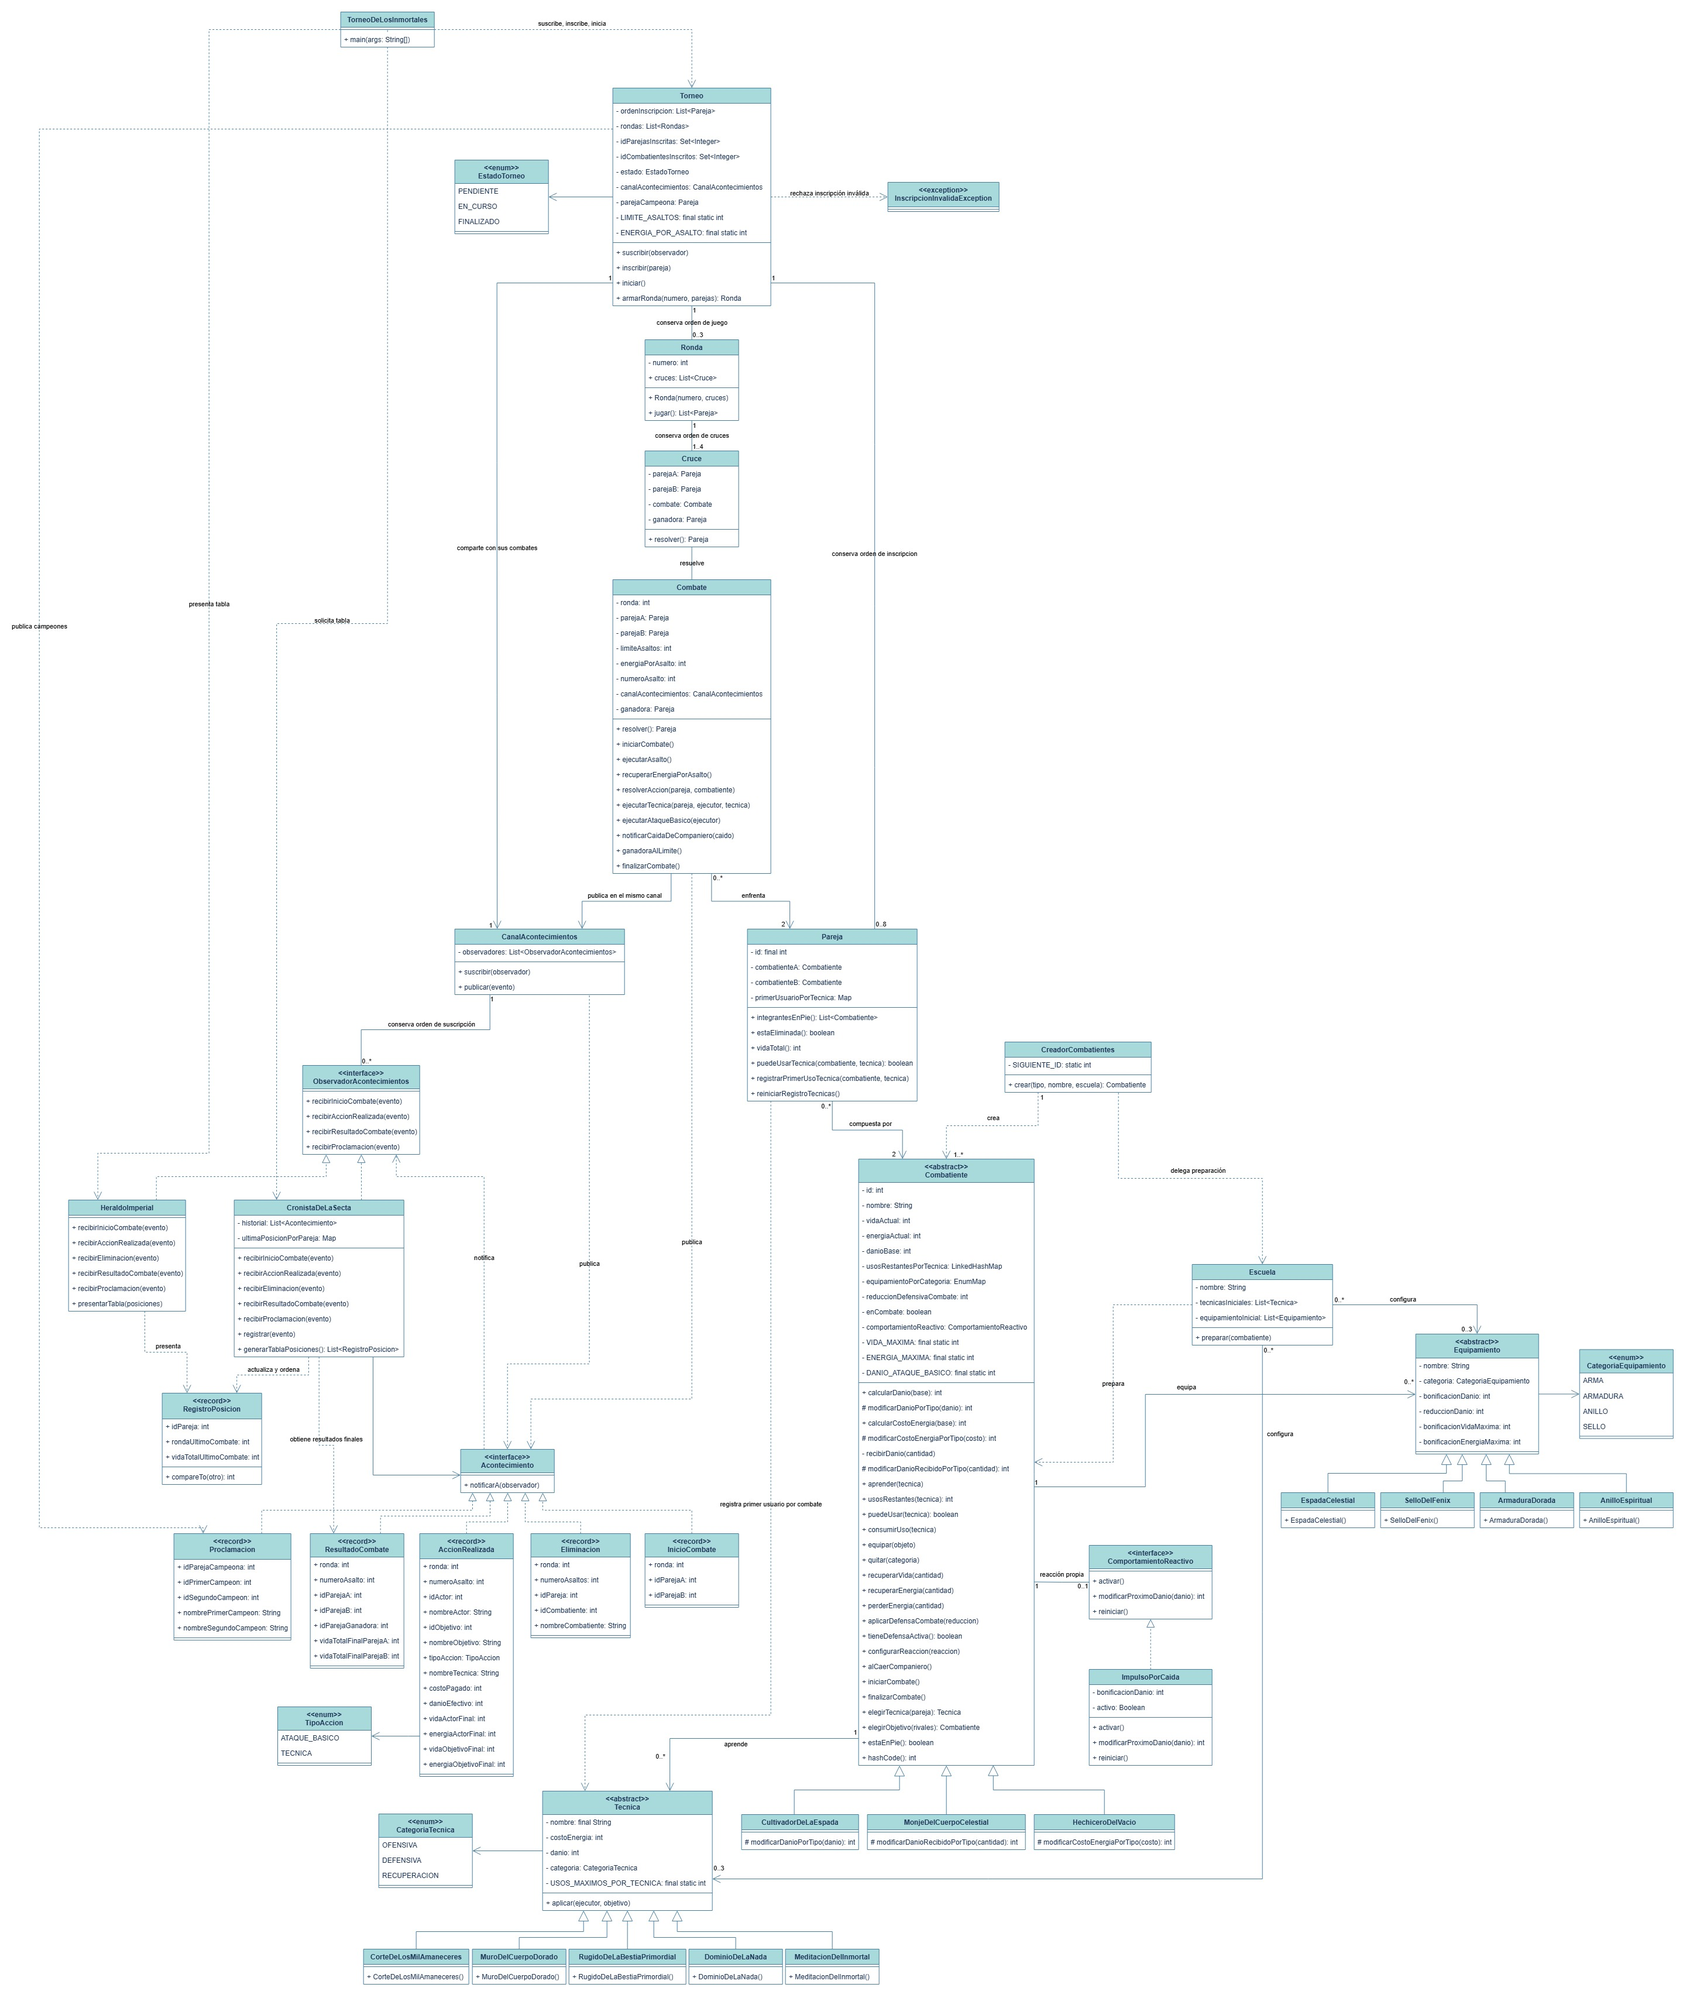
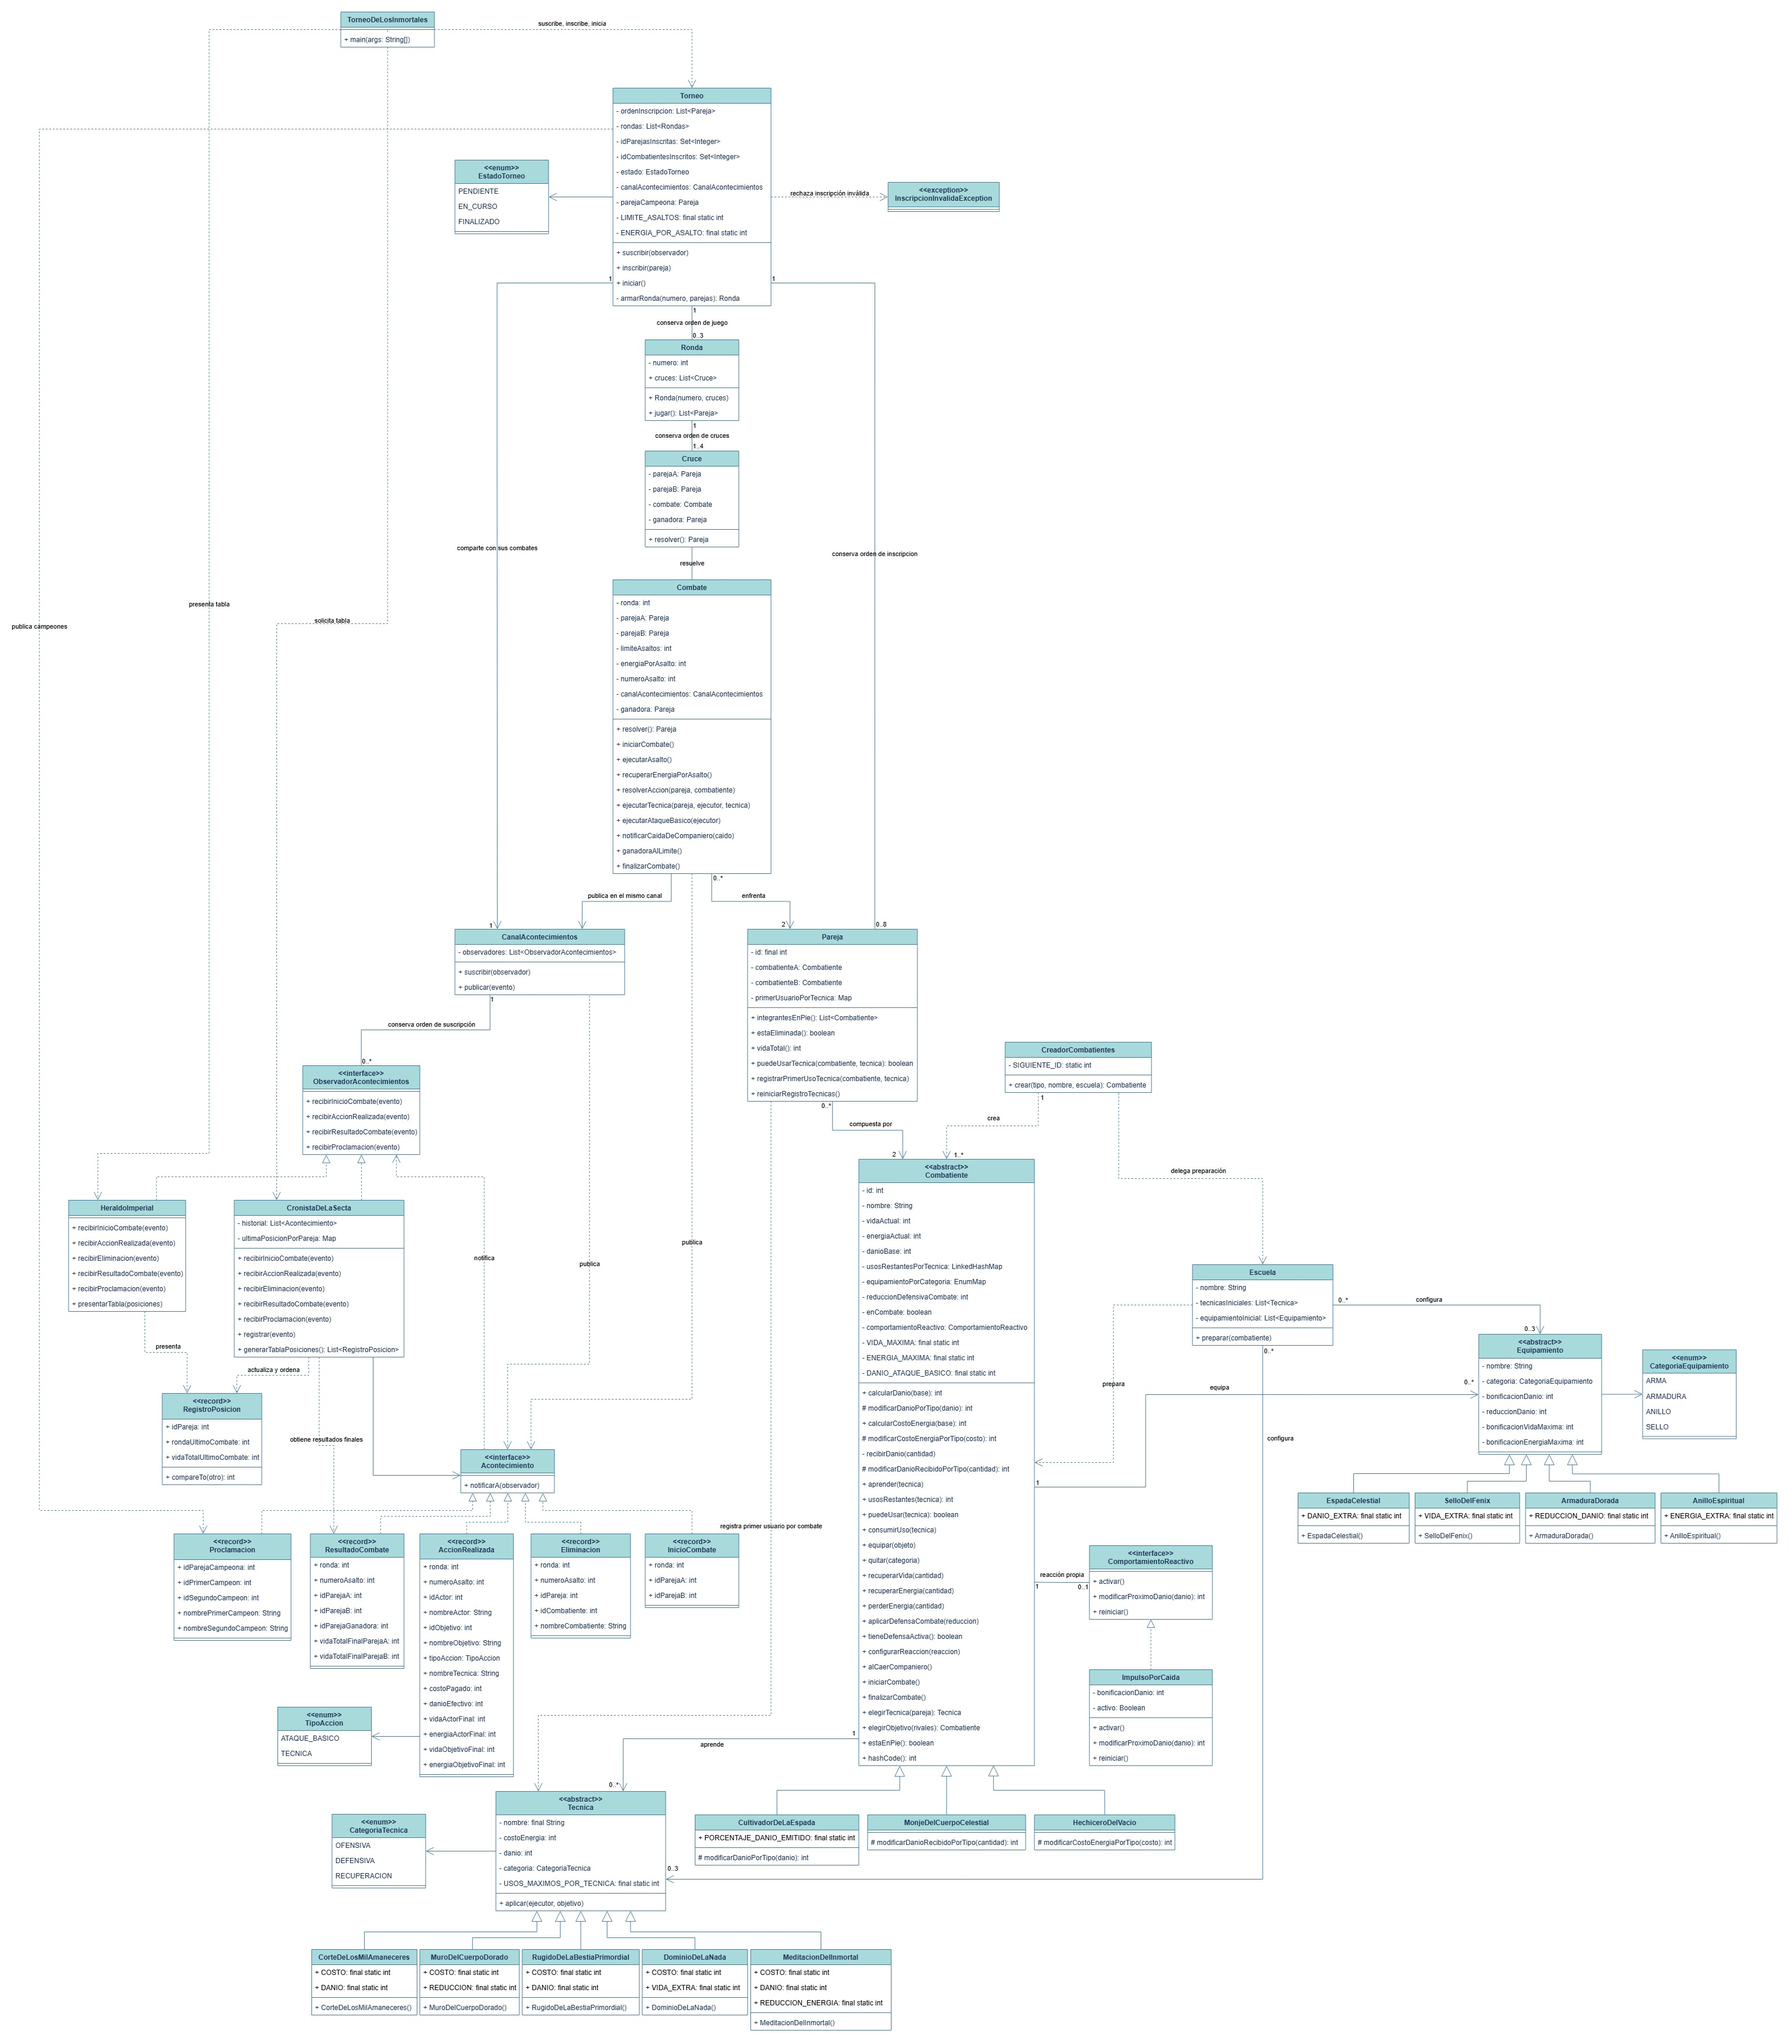
Actualizar diagrama de clases y reubicar TorneoDeLosInmortales

Changed region(s): [[0.0312, 0.031, 0.9997, 0.9936], [0.656, 0.5899, 0.8122, 0.6831], [0.1874, 0.0, 0.2499, 0.031]]

diff --git a/DosSantosSupremos/src/main/TorneoDeLosInmortales.java b/DosSantosSupremos/src/main/TorneoDeLosInmortales.java
@@ -1,4 +1,4 @@
-package torneo;
+package main;
 
 import java.util.List;
 
@@ -7,8 +7,16 @@ import combatientes.Combatiente;
 import combatientes.CreadorCombatientes;
 import combatientes.ImpulsoPorCaida;
 import equipamiento.AnilloEspiritual;
+import equipamiento.ArmaduraDorada;
+import equipamiento.EspadaCelestial;
 import equipamiento.SelloDelFenix;
 import tecnicas.CorteDeLosMilAmaneceres;
+import tecnicas.DominioDeLaNada;
+import tecnicas.MeditacionDelInmortal;
+import tecnicas.MuroDelCuerpoDorado;
+import tecnicas.RugidoDeLaBestiaPrimordial;
+import torneo.Pareja;
+import torneo.Torneo;
 
 public class TorneoDeLosInmortales {
 	public static void main(String[] args) {
